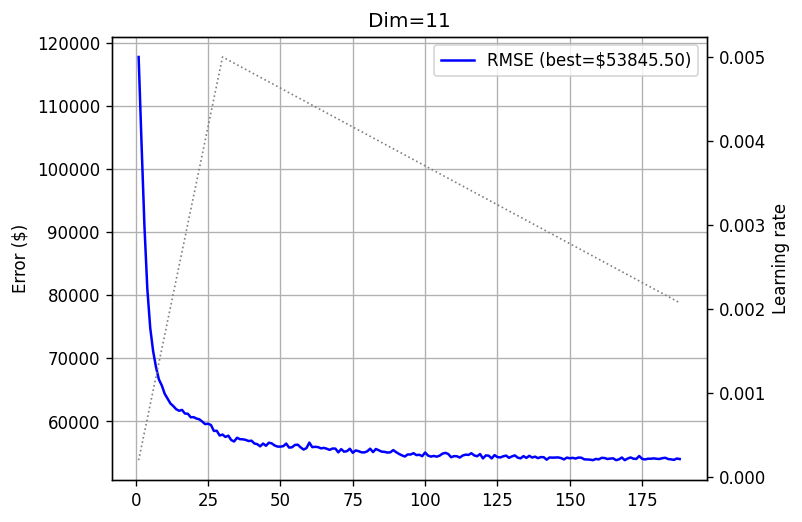
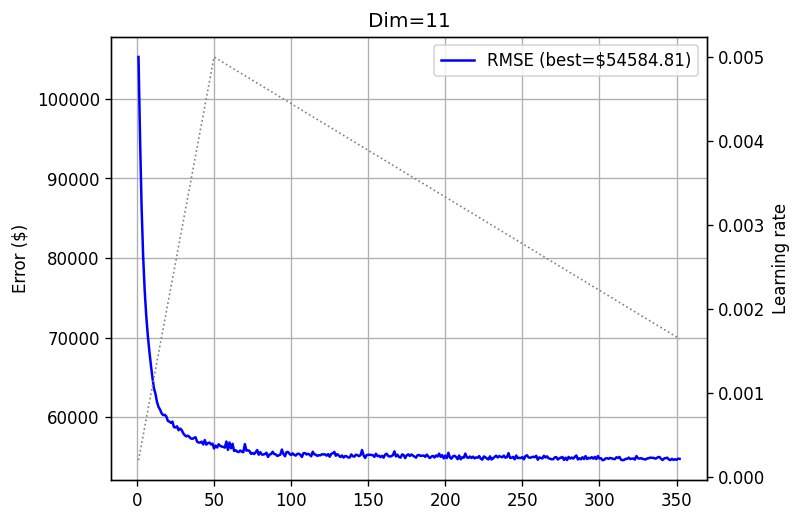
WIP

diff --git a/_posts/2026-03-15-Spectrum-Banded.md b/_posts/2026-03-15-Spectrum-Banded.md
@@ -619,15 +619,42 @@ plot_log(training_log)
 ![pow_spectrum_tri_calhousing_11_20]({{ "assets/pow_spectrum_tri_calhousing_11_20.png" | absolute_url }})
 In blue we see the validation loss, whereas in dotted black we see the learning rate. We can nicely see the warmup and cooldown stages.
 
-Alright, so now that we have all the machinery in place, let's try training some model with more epochs. I used 300 epochs in all the experiments, which was enough to train both smaller and larger models. So let's try 7-dimensional tridiagonal matrices:
+Alright, so now that we have all the machinery in place, let's try training some model with more epochs. I used 500 epochs in all the experiments, which was enough to train both smaller and larger models. So let's try 7-dimensional tridiagonal matrices:
 ```python
-training_log_7 = fts.collect_pd(complete_training_stream(7, 300))
+training_log_7 = fts.collect_pd(complete_training_stream(7, 500))
 plot_log(training_log_7, title='Dim=7')
 ```
 ![pow_spectrum_tri_calhousing_7_300]({{ "assets/pow_spectrum_tri_calhousing_7_300.png" | absolute_url }})
 How about 11-dimensional tridiagonals?
 ```python
-training_log_11 = fts.collect_pd(tqdm(complete_training_stream(11, 300)))
+training_log_11 = fts.collect_pd(complete_training_stream(11, 500))
 plot_log(training_log_11, title='Dim=11')
 ```
 ![pow_spectrum_tri_calhousing_11_300]({{ "assets/pow_spectrum_tri_calhousing_11_300.png" | absolute_url }})
+
+Nice! Increasing matrix size reduces the error, meaning that performance scales with model size. But remember - it is just one neuron! How about $$15 \times 15$$ matrices?
+```python
+training_log_15 = fts.collect_pd(complete_training_stream(15, 500))
+plot_log(training_log_15, title='Dim=15')
+```
+![pow_spectrum_tri_calhousing_15_300]({{ "assets/pow_spectrum_tri_calhousing_15_300.png" | absolute_url }})
+
+Another sligght improvement. What about $$45 \times 45$$ matrices?
+```python
+training_log_45 = fts.collect_pd(tqdm(complete_training_stream(45, 500)))
+plot_log(training_log_45, title='Dim=45')
+```
+![pow_spectrum_tri_calhousing_45_300]({{ "assets/pow_spectrum_tri_calhousing_45_300.png" | absolute_url }})
+
+I can share, and you can see it by running the notebook yourself, that each such experiment takes 3-4 minutes. Just to get a feeling - comparing to dense matrix experiments we conducted in previous posts, this is _orders of magnitude_ faster, and without any GPU. I'm pretty sure that if PyTorch had tridiagonal support, we could have run each experiment in seconds. But unfortunately - it does not.
+
+Comparing it to dense experiments we conducted with the same dataset and similar matrix sizes in [this post]({% post_url 2026-01-20-Spectrum-Speed %}), which took us 31 minutes on an NVidia L4 GPU for a $$45 \times 45$$ matrix, while achieving a similar test error - we clearly see the difference. No GPU, orders of magnitude faster, and a similar performance at least on this dataset.
+
+Of course - the above are not proper experiments I'd include in a paper. I haven't conducted any hyperparameter search, perhaps a different optimizer could be better, etc..., but we see the point.
+
+# Summary
+To summarize, we can see that restricting ourselves to eigenvalue model families where all matrices are simultaneously tri-diagonalizable can be useful to strike a good balance between speed and expressiveness. Let us recall why this model family is interesting - it's just one neuron, a linear (matrix) function composed with a non-linearity, that is quite expressive, while being fairly interpretable. These nice properties haven't gone anywhere - spectral norms of our tridiagonal matrices are still a reasonable way to think of importance, and provide a certificate for sensitivity of the model to changes in that feature.
+
+We do, however, see slow convergence. 500 epochs is quite a lot, and even though our training procedure stops beforehand due to the early stopping mechanism, it's still a few hundred epochs. Even if I throw the best practices at it, such as learning rate scheduling, early stopping, and others - it's still quite slow. At this stage, this is a price we pay for having a model that is one the one hand just one fairly interpretable neuron, but on the other hand we can improve it by scaling.
+
+We have many more questions to explore in this series. For example - can we prune any dense eigenvalue model to tridiagonal form? Can we make it converge faster? How we stack such models as layers of a larger neural network? Stay tuned!
